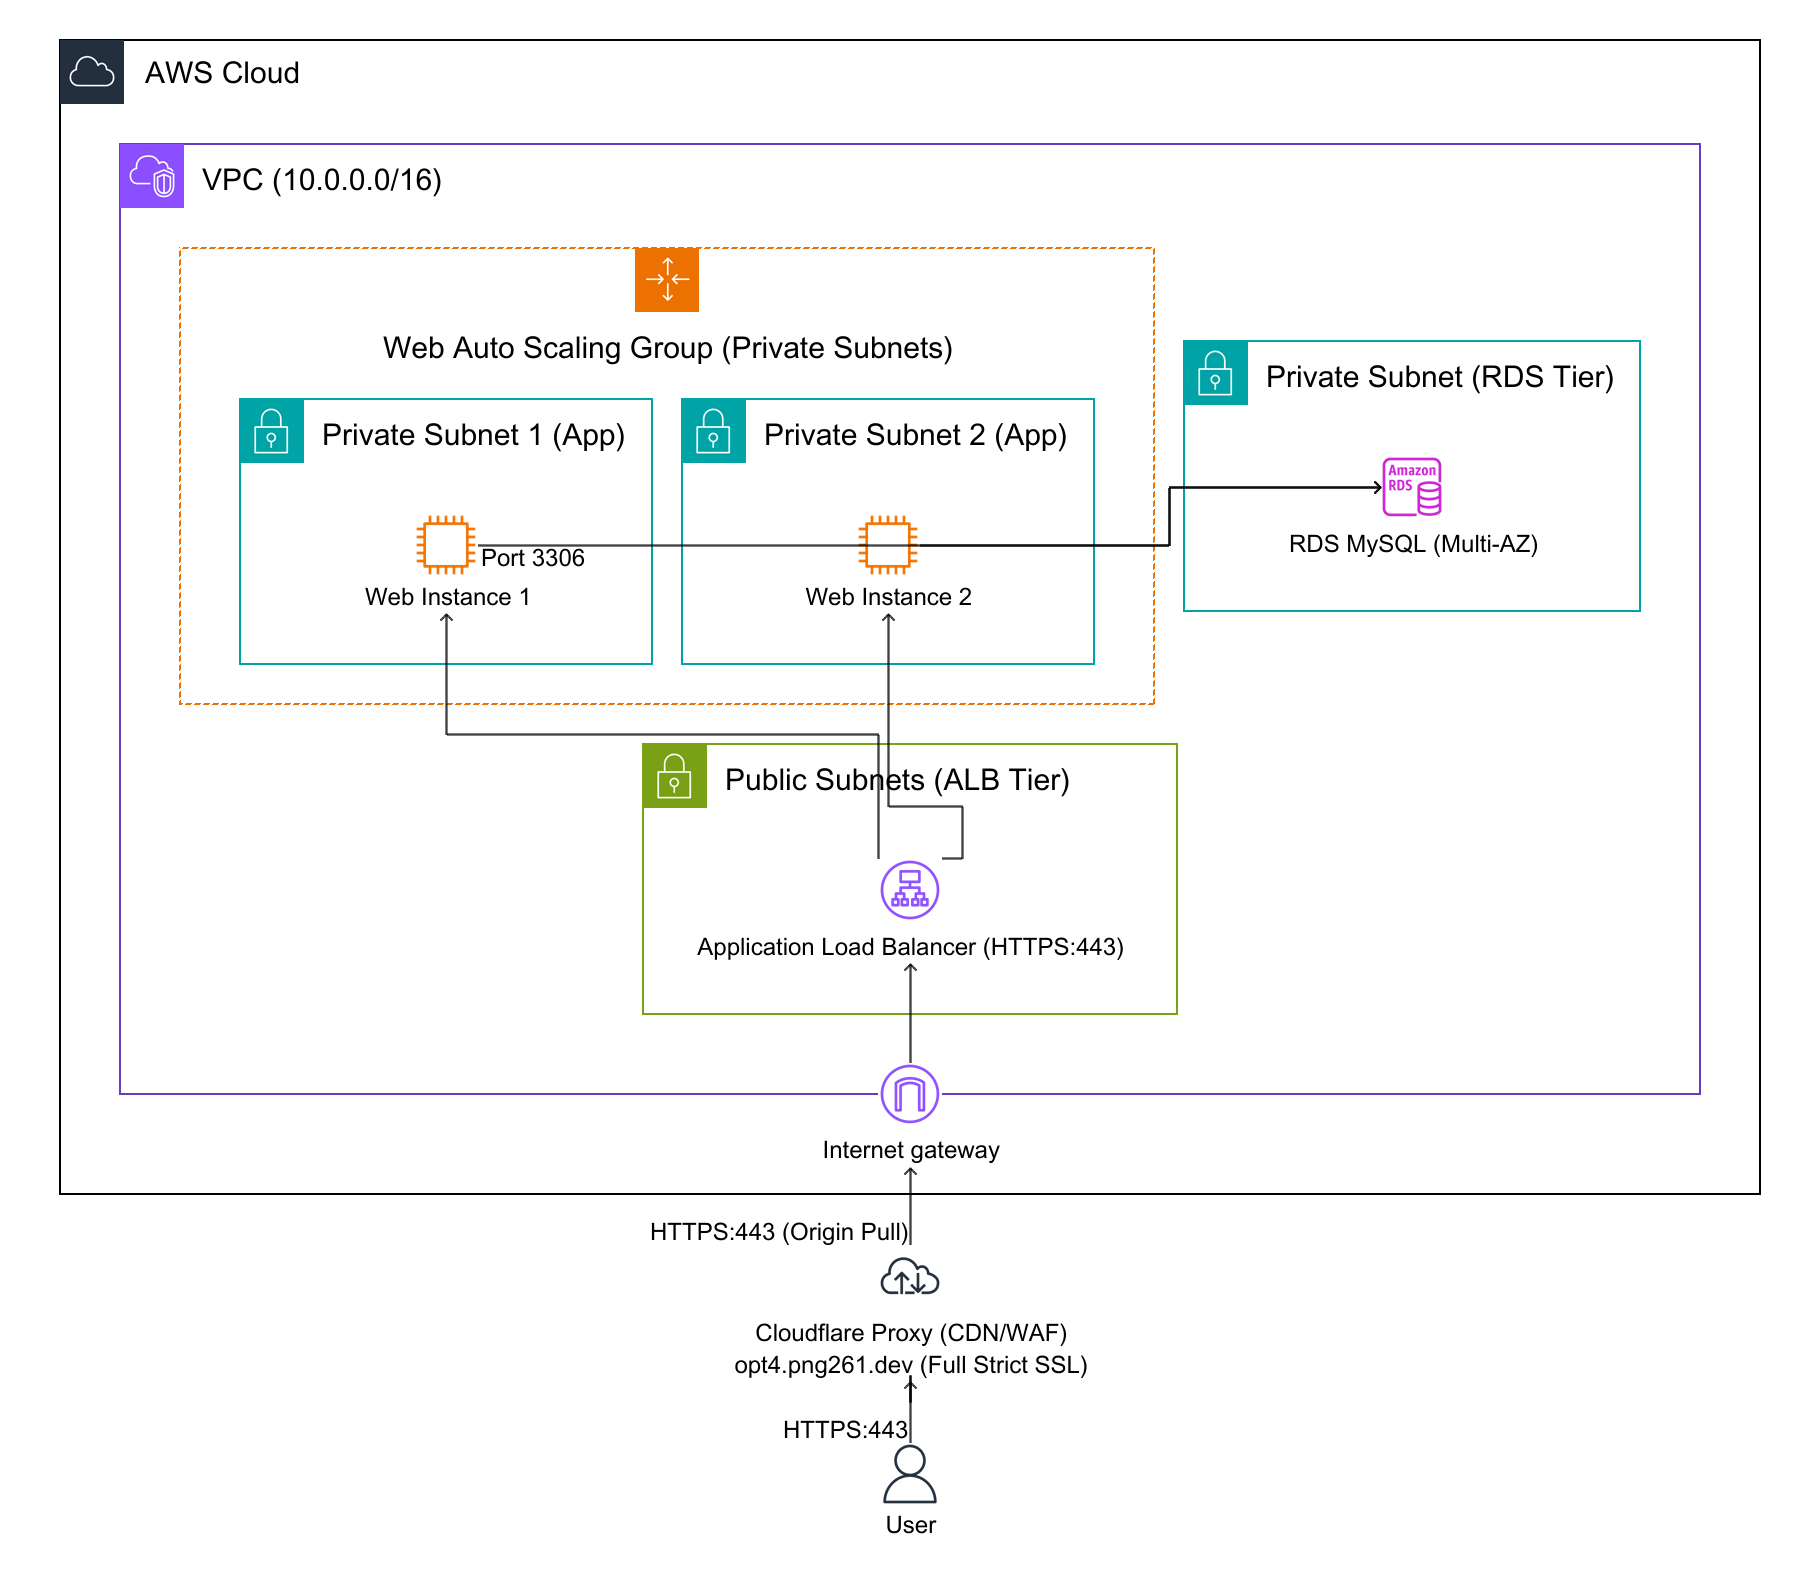
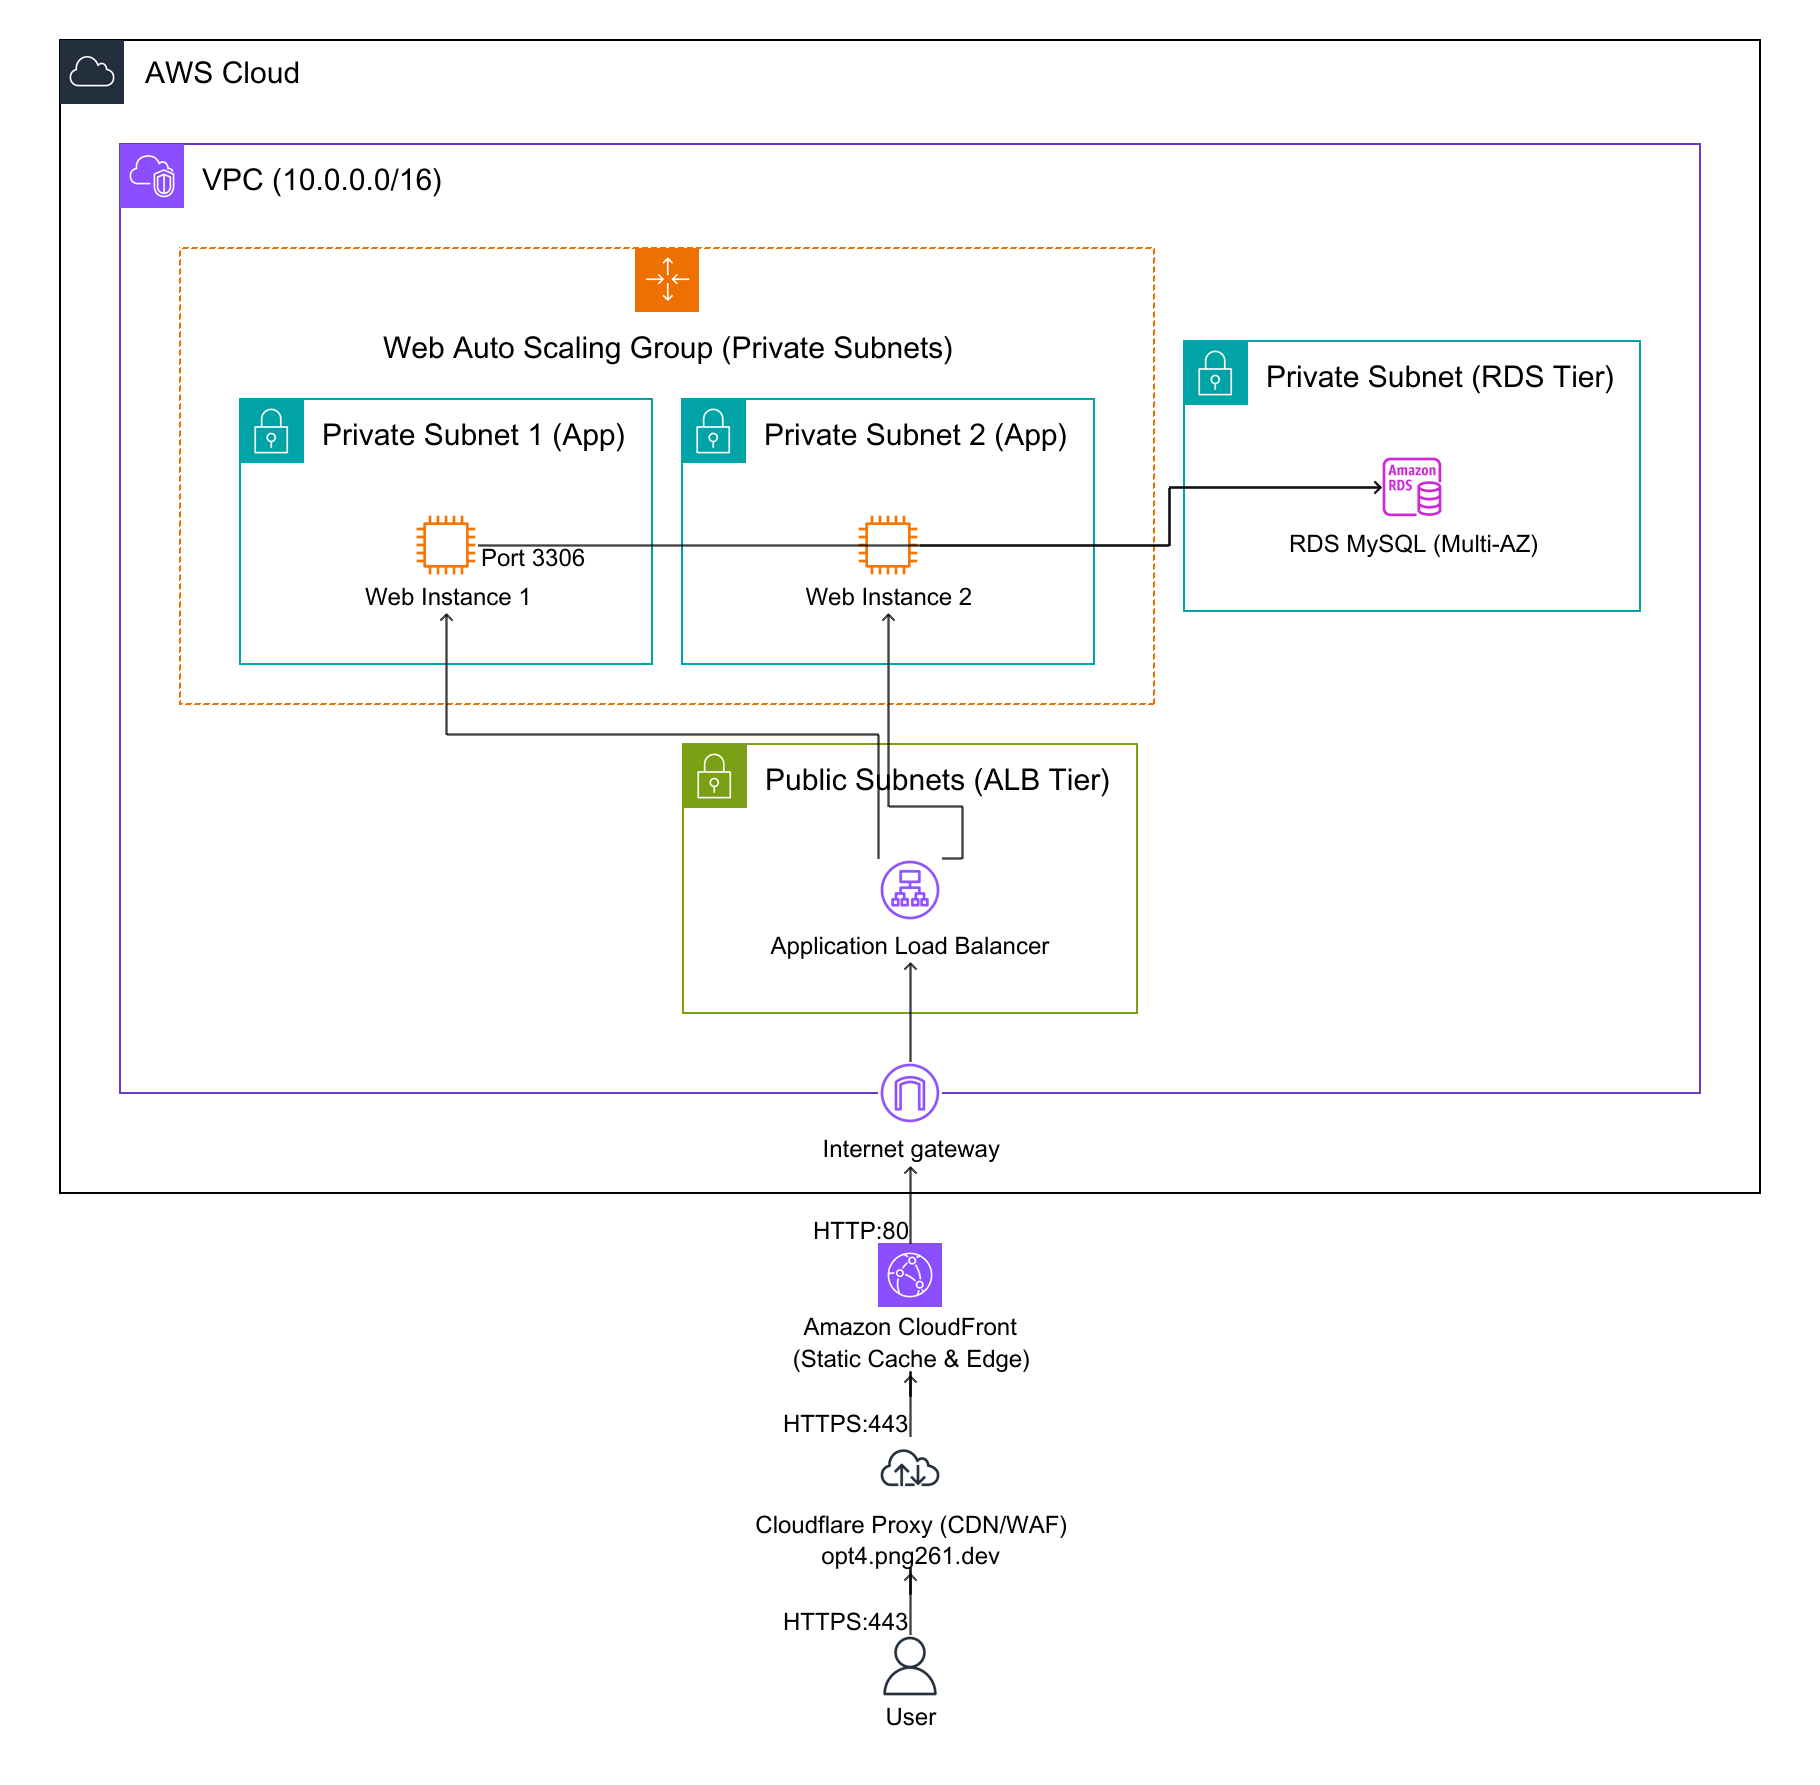
feat(infra): add CloudFront edge caching and update architecture diagram for Option 4

diff --git a/README.md b/README.md
@@ -38,9 +38,15 @@ No costed resources detected.
 ```
 <!-- INFRACOST_END -->
 
-## 3. Kiến trúc Hạ tầng (Architecture Diagram)
+### 3. Kiến trúc Hạ tầng (Architecture Diagram)
 ![Architecture](infra/architecture_diagram.png)
 
+### Điểm nổi bật của kiến trúc:
+- **CloudFront CDN Edge Caching:** Caching tối ưu cho static assets (`/_next/static/*`, `/static/*`), giảm tải 80-90% lượng request vào cụm máy chủ gốc, cải thiện TTFB và tăng tốc độ tải trang toàn cầu.
+- **Application Load Balancer (ALB):** Nằm tại Public Subnets (Multi-AZ), cân bằng tải lưu lượng truy cập HTTP/HTTPS vào các EC2 instances trong Auto Scaling Group.
+- **Web Auto Scaling Group (ASG):** Nằm an toàn trong **Private Subnets (AZ1 & AZ2)**, tự động scale số lượng EC2 instances dựa theo ngưỡng CPU utilization (70%).
+- **AWS Managed RDS MySQL (Multi-AZ):** Cơ sở dữ liệu quan hệ được quản lý hoàn toàn nằm sâu trong **Private Subnets (AZ1 & AZ2)**, tự động sao lưu, mã hóa lưu trữ và cô lập an toàn.
+- **Cloudflare Proxy + Custom Domain:** Định tuyến người dùng qua Cloudflare CDN/WAF tới CloudFront / ALB endpoint.
 
 ## 📸 Giao Diện Ứng Dụng Thực Tế (Live Screenshots - Dev & Prod)
 
@@ -49,8 +55,8 @@ No costed resources detected.
 | ![Development Environment](screenshots/dev_screenshot.png) | ![Production Environment](screenshots/prod_screenshot.png) |
 
 > 🚀 **Ghi chú triển khai:**
-> - **Môi trường Dev (`opt4-dev.png261.dev`):** Chạy chế độ debug/development, kết nối cơ sở dữ liệu Dev, phục vụ kiểm thử tính năng mới.
-> - **Môi trường Prod (`opt4.png261.dev`):** Chạy chế độ production tối ưu hóa hiệu năng cao, bảo mật nghiêm ngặt qua Cloudflare SSL/HTTPS.
+> - **Môi trường Dev (`opt4-dev.png261.dev`):** Chạy chế độ debug/development, Auto Scaling Min 1 - Max 2 instance.
+> - **Môi trường Prod (`opt4.png261.dev`):** Chạy chế độ production tối ưu hóa hiệu năng cao, Auto Scaling Min 2 - Max 6 instances, bảo mật nghiêm ngặt qua Cloudflare SSL/HTTPS.
 
 
 ## ⚛ Ứng Dụng React & Quy Trình Đóng Gói Docker / Amazon ECR
@@ -83,12 +89,12 @@ Quy trình tuân thủ nghiêm ngặt chuẩn DevOps hiện đại:
 Hạ tầng hỗ trợ ánh xạ tên miền `png261.dev` cho cả môi trường Development và Production:
 
 | Môi trường | Nhánh Git | Subdomain | Loại bản ghi DNS | Giá trị đích (Target) | Proxy Cloudflare |
-| :--- | :--- | :--- | :---: | :--- | :---: |
-| **Development** | `dev` | `opt4-dev.png261.dev` | `A` | `${WebServerEIP.PublicIp}` (Dev EIP) | Bật (Proxied ☁) |
-| **Production** | `main` | `opt4.png261.dev` | `A` | `${WebServerEIP.PublicIp}` (Prod EIP) | Bật (Proxied ☁) |
+| :--- | :--- | :--- | :---: | :--- | :--- |
+| **Development** | `dev` | `opt4-dev.png261.dev` | `CNAME` | `${CloudFrontDistribution.DomainName}` / ALB DNS | Bật (Proxied ☁) |
+| **Production** | `main` | `opt4.png261.dev` | `CNAME` | `${CloudFrontDistribution.DomainName}` / ALB DNS | Bật (Proxied ☁) |
 
 > 💡 **Khuyến nghị SSL/HTTPS qua Cloudflare:**
-> Do tên miền `png261.dev` được quản trị Nameserver tại Cloudflare, khi tạo bản ghi `A` với trạng thái **Proxied (Đám mây màu cam ☁)**:
+> Do tên miền `png261.dev` được quản trị Nameserver tại Cloudflare, khi tạo bản ghi `CNAME` với trạng thái **Proxied (Đám mây màu cam ☁)**:
 > - Cloudflare sẽ tự động cấp chứng chỉ **Universal SSL/TLS miễn phí** (HTTPS xanh).
 > - Tự động kích hoạt CDN caching và bảo vệ chống tấn công DDoS Lớp 7.
 
